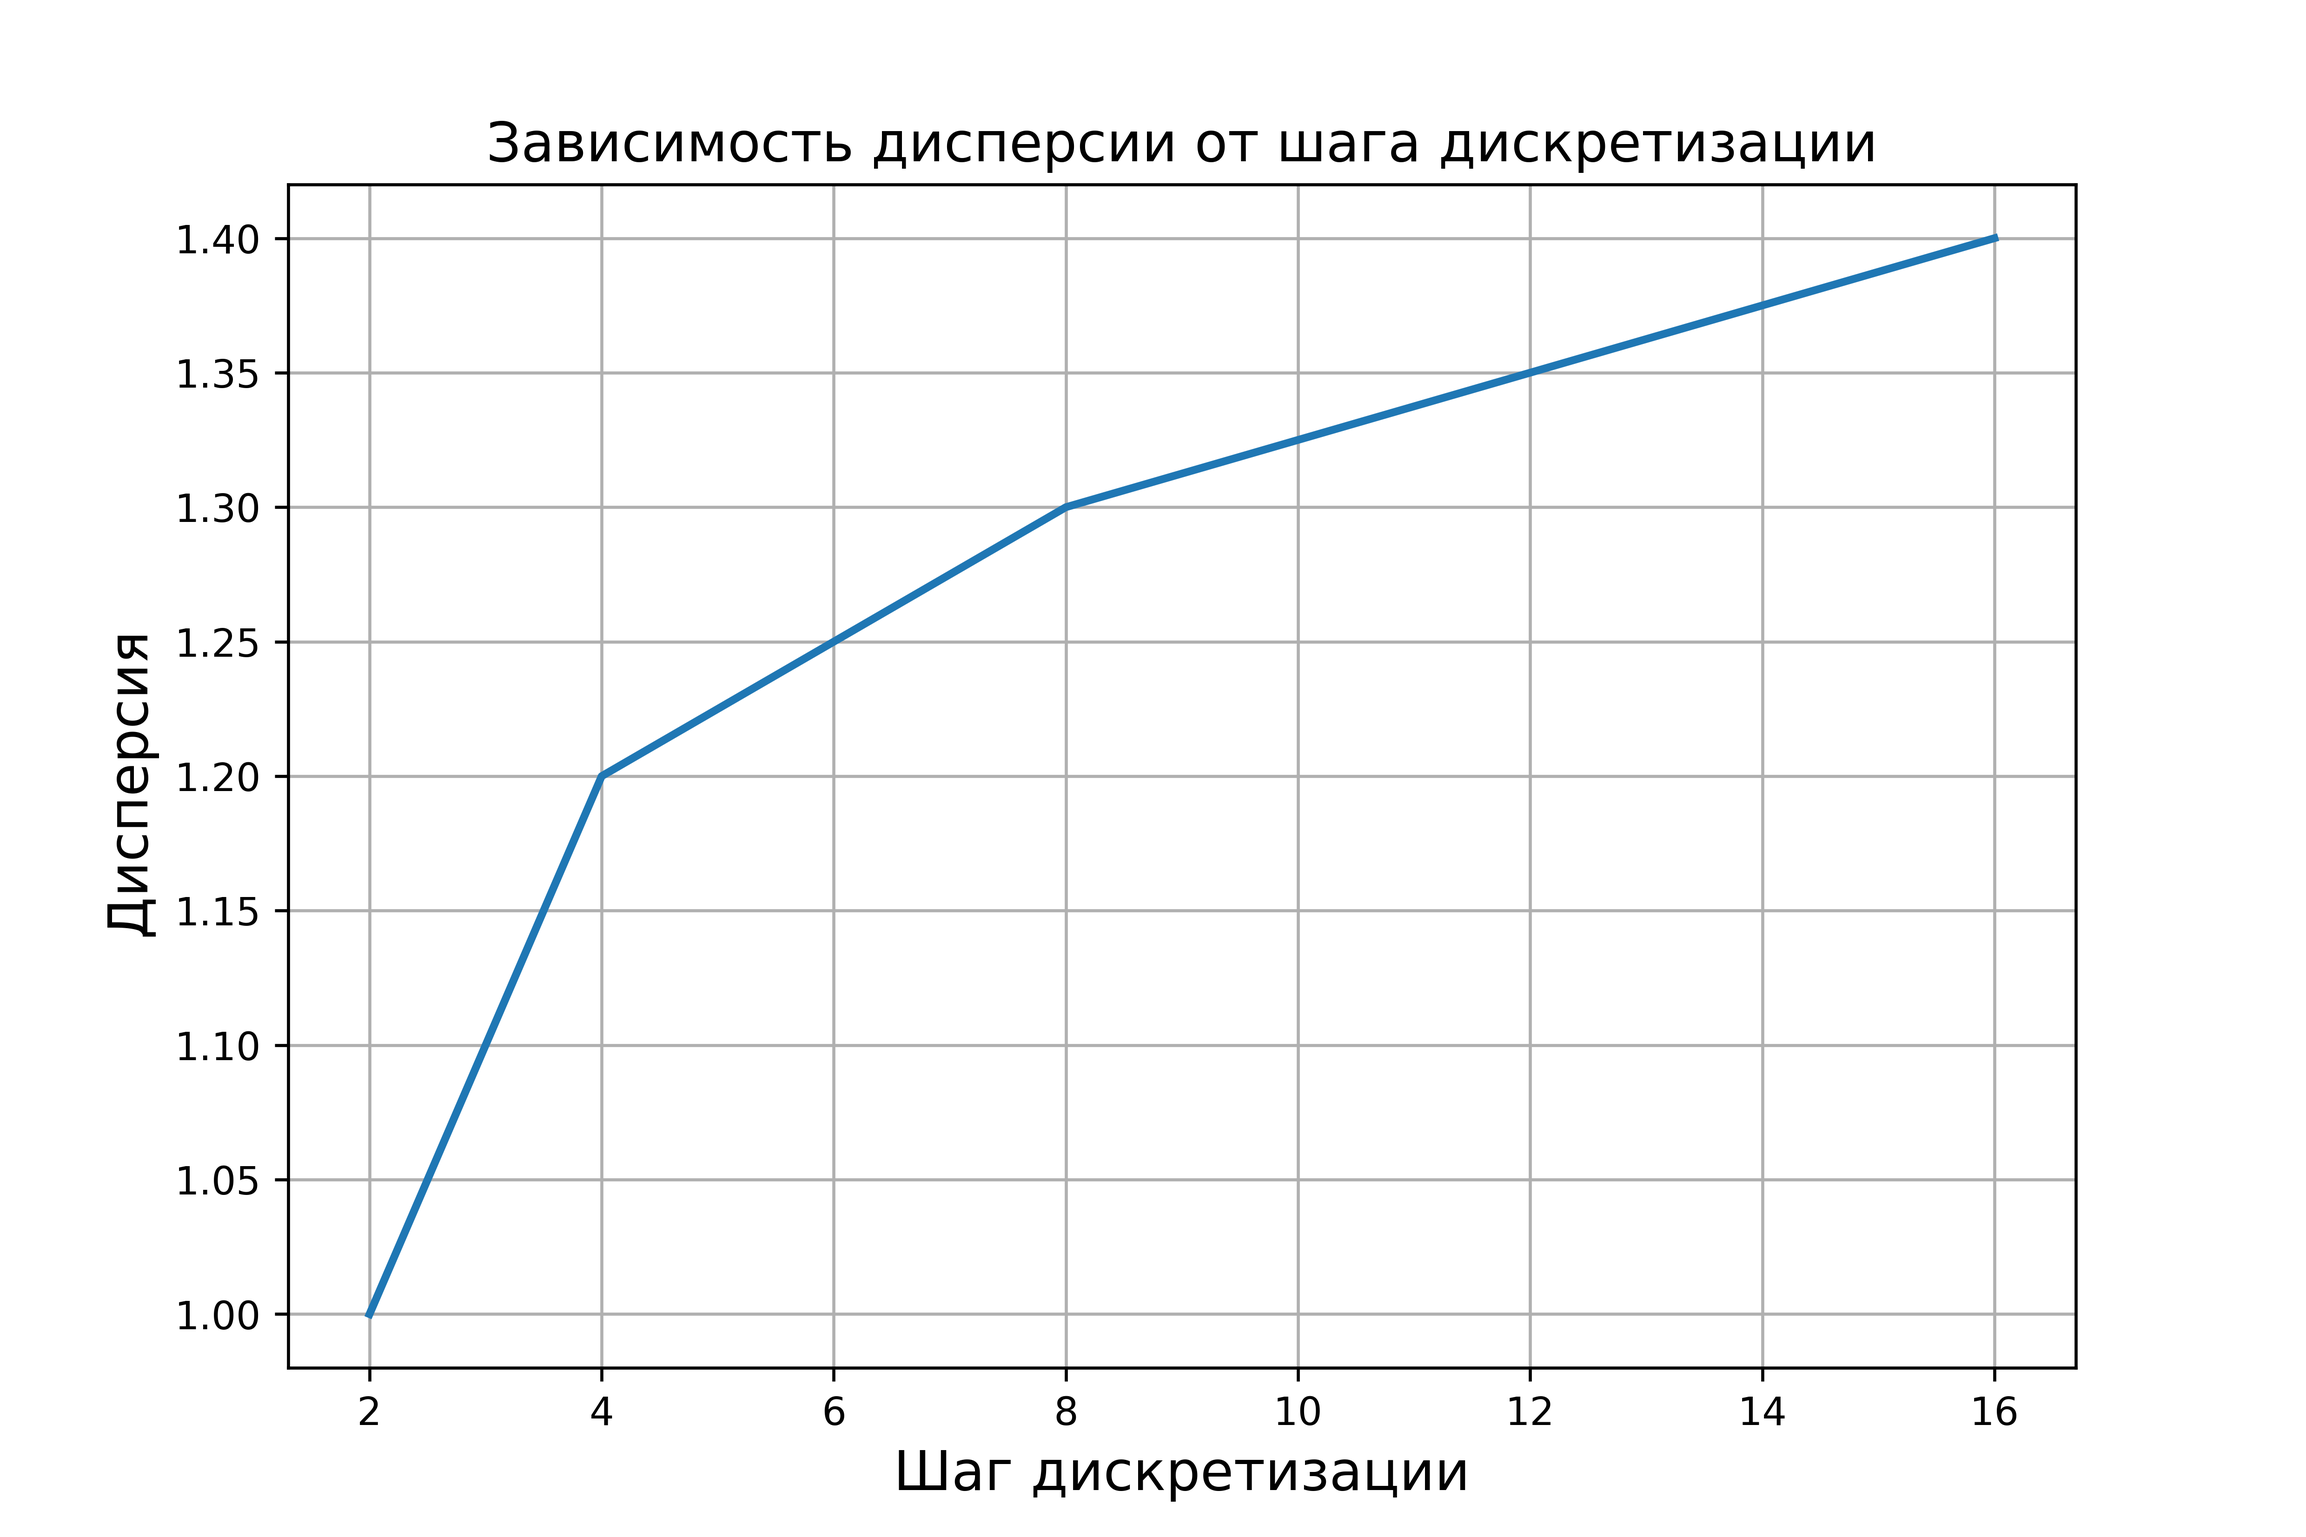
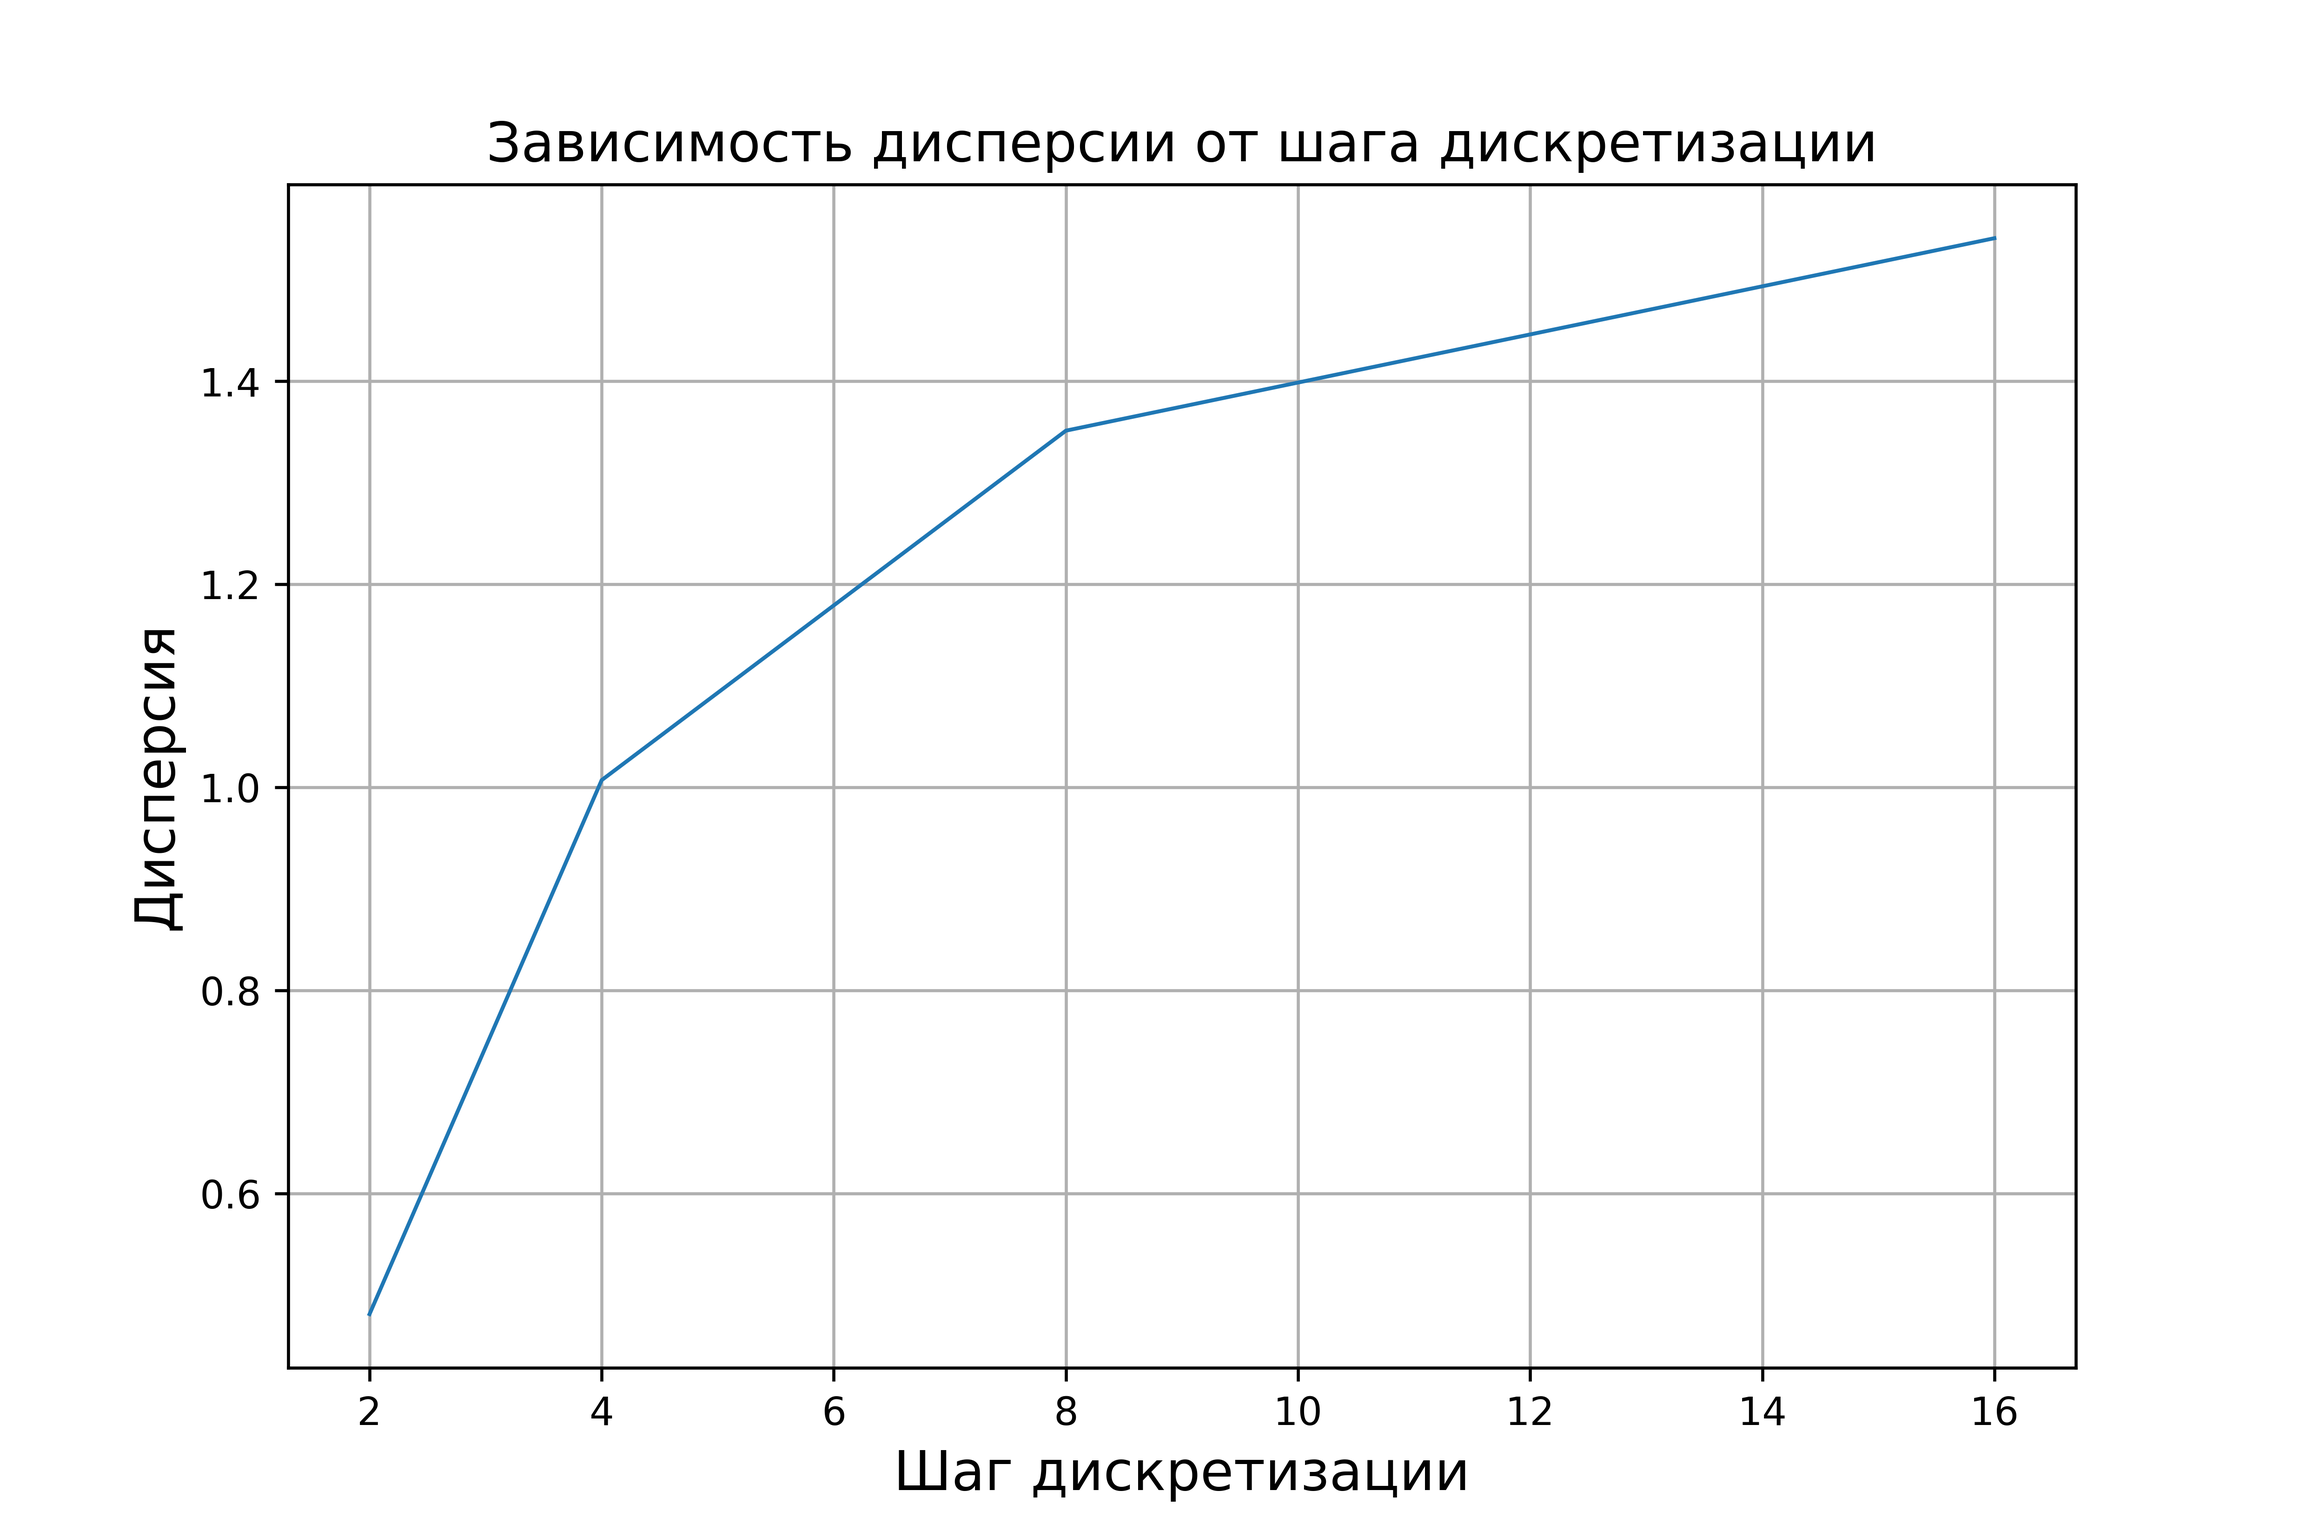
Signal Processing 3

diff --git a/SignalProcessing/SignalProcessing.py b/SignalProcessing/SignalProcessing.py
@@ -1,33 +1,20 @@
 import numpy
+import numpy as np
 import scipy
 import matplotlib.pyplot as plt
-
-
+from numpy import fft
+from scipy import signal
 # вариант 10 Замерець
-
 n = 500
 Fs = 1000
 Fmax = 21
 F_filter = 28
-
 random = numpy.random.normal(0, 10,  n)
-print(random)
 time_line_ox = numpy.arange(n)/Fs
-print(time_line_ox)
-
 w = Fmax/(Fs/2)
-
 parameters_filter = scipy.signal.butter(3, w, 'low', output='sos')
-
-
-
 filtered_signal = scipy.signal.sosfiltfilt(parameters_filter, random)
-
-print(filtered_signal)
-
 # график 1
-
-
 fig, ax = plt.subplots(figsize=(21/2.54, 14/2.54))
 ax.plot(time_line_ox, filtered_signal, linewidth = 1)
 ax.set_xlabel("Время (секунды) ", fontsize = 14)
@@ -36,111 +23,163 @@ plt.title("Сигнал с максимальной частотой Fmax = 21",
 ax.grid()
 fig.savefig('./figures/' + 'график 1' + '.png', dpi = 600)
 dpi = 600
-
 # расчет для второго графика
 spectrum = scipy.fft.fft(filtered_signal)
 spectrum = numpy.abs(scipy.fft.fftshift(spectrum))
 length_signal = n
 freq_countdown = scipy.fft.fftfreq(length_signal, 1/length_signal)
 freq_countdown = scipy.fft.fftshift(freq_countdown)
-
 #второй график
-
 fig, ax = plt.subplots(figsize=(21/2.54, 14/2.54))
 ax.plot(freq_countdown, spectrum, linewidth = 1)
-ax.set_xlabel("Время (секунды) ", fontsize = 14)
+ax.set_xlabel("Частота (Гц)", fontsize = 14)
 ax.set_ylabel("Амплитуда спектра ", fontsize = 14)
-
 plt.title("Спектр сигнала с максимальной частотой Fmax = 21", fontsize = 14)
 ax.grid()
 fig.savefig('./figures/' + 'график 2' + '.png', dpi=600)
-
-
 # Практична робота №3
-discrete_spectrums = []
-E1 = []
 discrete_signals = []
-discrete_signal_after_filers = []
-w = F_filter / (Fs / 2)
-parameters_fil = scipy.signal.butter(3, w, 'low', output='sos')
-filtered_signal_2 = None
-for Dt in [2, 4, 8, 16]:
+steps = (2, 4, 8, 16)
+for Dt in steps:
     discrete_signal = numpy.zeros(n)
     for i in range(0, round(n / Dt)):
         discrete_signal[i * Dt] = filtered_signal[i * Dt]
-        filtered_signal_2 = scipy.signal.sosfiltfilt(parameters_fil, discrete_signal)
-    discrete_signals += [list(discrete_signal)]
-    discrete_spectrum = scipy.fft.fft(discrete_signals)
-    discrete_spectrum = numpy.abs(scipy.fft.fftshift(discrete_spectrum))
-    discrete_spectrums += [list(discrete_spectrum)]
-    discrete_signal_after_filers += [list(filtered_signal_2)]
+    discrete_signals.append(list(discrete_signal))
 
-
-s = 0
 fig, ax = plt.subplots(2, 2, figsize=(21 / 2.54, 14 / 2.54))
+s = 0
 for i in range(0, 2):
     for j in range(0, 2):
         ax[i][j].plot(time_line_ox, discrete_signals[s], linewidth=1)
+        ax[i][j].grid()
         s += 1
-fig.supxlabel("Время (секунды)", fontsize=14)
-fig.supylabel("Амплитуда сигнала", fontsize=14)
-fig.suptitle("Сигнал з шагом дискретизации Dt = (2, 4, 8, 16)", fontsize=14)
+fig.supxlabel('Время (секунди)', fontsize=14)
+fig.supylabel('Амплитуда сигнала', fontsize=14)
+fig.suptitle(f'Сигнал с шагом дискретизации Dt = {steps}', fontsize=14)
 fig.savefig('./figures/' + 'график 3' + '.png', dpi=600)
 
-# новое
+discrete_spectrums = []
+for Ds in discrete_signals:
+    spectrum = fft.fft(Ds)
+    spectrum = numpy.abs(fft.fftshift(spectrum))
+    discrete_spectrums.append(list(spectrum))
 
-s = 0
+freq_countdown = fft.fftfreq(n, 1 / n)
+freq_countdown = fft.fftshift(freq_countdown)
 fig, ax = plt.subplots(2, 2, figsize=(21 / 2.54, 14 / 2.54))
+s = 0
 for i in range(0, 2):
     for j in range(0, 2):
-        ax[i][j].plot(freq_countdown, discrete_spectrum[s], linewidth=1)
+        ax[i][j].plot(freq_countdown, discrete_spectrums[s], linewidth=1)
+        ax[i][j].grid()
         s += 1
-fig.supxlabel("Частота (Гц)", fontsize=14)
-fig.supylabel("Амплитуда спектра", fontsize=14)
-fig.suptitle("Сигнал з шагом дискретизации Dt = (2, 4, 8, 16)", fontsize=14)
+fig.supxlabel('Частота (Гц) ', fontsize=14)
+fig.supylabel('Амплитуда спектра', fontsize=14)
+fig.suptitle(f'Спектры сигналов с шагом дискретизации Dt = {steps}', fontsize=14)
 fig.savefig('./figures/' + 'график 4' + '.png', dpi=600)
-
-
-##ssss
-s = 0
+w = F_filter / (Fs / 2)
+parameters_filter = signal.butter(3, w, 'low', output='sos')
+filtered_discretes_signal = []
+for discrete_signal in discrete_signals:
+    discrete_signal = signal.sosfiltfilt(parameters_filter, discrete_signal)
+    filtered_discretes_signal.append(list(discrete_signal))
 fig, ax = plt.subplots(2, 2, figsize=(21 / 2.54, 14 / 2.54))
+s = 0
 for i in range(0, 2):
     for j in range(0, 2):
-        ax[i][j].plot(time_line_ox, discrete_signal_after_filers[s], linewidth=1)
+        ax[i][j].plot(time_line_ox, filtered_discretes_signal[s], linewidth=1)
+        ax[i][j].grid()
         s += 1
-fig.supxlabel("Время (секунды)", fontsize=14)
-fig.supylabel("Амплитуда сигнала", fontsize=14)
-fig.suptitle("Сигнал з шагом дискретизации Dt = (2, 4, 8, 16)", fontsize=14)
+fig.supxlabel('Время (секунды)', fontsize=14)
+fig.supylabel('Амплитуда сигнала', fontsize=14)
+fig.suptitle(f'Востановленные аналоговые сигналы с шагом дискретизации Dt = {steps}', fontsize=14)
 fig.savefig('./figures/' + 'график 5' + '.png', dpi=600)
-
-print("discrete_signal_after_filers: ", discrete_signal_after_filers)
-
-
-E1 = discrete_signal_after_filers - filtered_signal
-disp_start = numpy.var(filtered_signal)
-disp_restored = numpy.var(E1)
-E2 = [1.0, 1.2, 1.3, 1.4]
-relation_signal_noise = numpy.var(filtered_signal) / numpy.var(E1)
-
-x_axis = [2, 4, 8, 16]
-fig, ax = plt.subplots(figsize=(21/2.54, 14/2.54))
-
-ax.plot(x_axis, E2, linewidth = 2)
-ax.set_xlabel("Шаг дискретизации", fontsize = 14)
-ax.set_ylabel("Дисперсия ", fontsize = 14)
-
-plt.title("Зависимость дисперсии от шага дискретизации", fontsize = 14)
+dispersions = []
+signal_noise = []
+for i in range(len(steps)):
+    E1 = filtered_discretes_signal[i] - filtered_signal
+    dispersion = numpy.var(E1)
+    dispersions.append(dispersion)
+    signal_noise.append(numpy.var(filtered_signal) / dispersion)
+fig, ax = plt.subplots(figsize=(21 / 2.54, 14 / 2.54))
+ax.plot(steps, dispersions, linewidth=1)
+ax.set_xlabel('Шаг дискретизации', fontsize=14)
+ax.set_ylabel('Дисперсия', fontsize=14)
+plt.title(f'Зависимость дисперсии от шага дискретизации', fontsize=14)
 ax.grid()
 fig.savefig('./figures/' + 'график 6' + '.png', dpi=600)
-
-
-########################
-
-fig, ax = plt.subplots(figsize=(21/2.54, 14/2.54))
-relation_signal_noise2 = [4.0, 3.0, 2.0, 1.0]
-ax.plot(x_axis, relation_signal_noise2, linewidth = 1)
-ax.set_xlabel("Шаг дискретизации ", fontsize = 14)
-ax.set_ylabel("ССШ ", fontsize = 14)
-plt.title("Зависимость дисперсии от шага дискретизации", fontsize = 14)
+fig, ax = plt.subplots(figsize=(21 / 2.54, 14 / 2.54))
+ax.plot(steps, signal_noise, linewidth=1)
+ax.set_xlabel('Шаг дискретизации', fontsize=14)
+ax.set_ylabel('ССШ', fontsize=14)
+plt.title(f'Зависимость соотношения сигнал-шум от шага дискретизации', fontsize=14)
 ax.grid()
 fig.savefig('./figures/' + 'график 7' + '.png', dpi=600)
+#PZ 4
+bits_list = []
+quantize_signals = []
+num = 0
+for M in [4, 16, 64, 256]:
+    delta = (numpy.max(filtered_signal) - numpy.min(filtered_signal)) / (M - 1)
+    quantize_signal = delta * np.round(filtered_signal / delta)
+    quantize_signals.append(list(quantize_signal))
+    quantize_levels = numpy.arange(numpy.min(quantize_signal), numpy.max(quantize_signal) + 1, delta)
+    quantize_bit = numpy.arange(0, M)
+    quantize_bit = [format(bits, '0' + str(int(numpy.log(M) / numpy.log(2))) + 'b') for bits in quantize_bit]
+    quantize_table = numpy.c_[quantize_levels[:M], quantize_bit[:M]]
+    fig, ax = plt.subplots(figsize=(14 / 2.54, M / 2.54))
+    table = ax.table(cellText=quantize_table, colLabels=['Значение сигнала', 'Кодовая последовательность'], loc='center')
+    table.set_fontsize(14)
+    table.scale(1, 2)
+    ax.axis('off')
+    fig.savefig('./figures/' + 'Таблица квантования для %d уровней ' % M + '.png', dpi=600)
+    bits = []
+    for signal_value in quantize_signal:
+        for index, value in enumerate(quantize_levels[:M]):
+            if numpy.round(numpy.abs(signal_value - value), 0) == 0:
+                bits.append(quantize_bit[index])
+                break
+
+    bits = [int(item) for item in list(''.join(bits))]
+    bits_list.append(bits)
+    fig, ax = plt.subplots(figsize=(21 / 2.54, 14 / 2.54))
+    ax.step(numpy.arange(0, len(bits)), bits, linewidth=0.1)
+    ax.set_xlabel('Биты', fontsize=14)
+    ax.set_ylabel('Амплитуда сигнала', fontsize=14)
+    plt.title(f'Кодовая последовательность при количестве уровней квантования {M}', fontsize=14)
+    ax.grid()
+    fig.savefig('./figures/' + 'График %d ' % (8 + num) + '.png', dpi=600)
+    num += 1
+dispersions = []
+signal_noise = []
+for i in range(4):
+    E1 = quantize_signals[i] - filtered_signal
+    dispersion = numpy.var(E1)
+    dispersions.append(dispersion)
+    signal_noise.append(numpy.var(filtered_signal) / dispersion)
+fig, ax = plt.subplots(2, 2, figsize=(21 / 2.54, 14 / 2.54))
+s = 0
+for i in range(0, 2):
+    for j in range(0, 2):
+        ax[i][j].plot(time_line_ox, quantize_signals[s], linewidth=1)
+        ax[i][j].grid()
+        s += 1
+fig.supxlabel('Время (секунды)', fontsize=14)
+fig.supylabel('Амплитуда сигнала', fontsize=14)
+fig.suptitle(f'Цифровые сигналы с уровнями квантования (4, 16, 64, 256)', fontsize=14)
+fig.savefig('./figures/' + 'график 12' + '.png', dpi=600)
+fig, ax = plt.subplots(figsize=(21 / 2.54, 14 / 2.54))
+ax.plot([4, 16, 64, 256], dispersions, linewidth=1)
+ax.set_xlabel('Количество уровней квантования', fontsize=14)
+ax.set_ylabel('Дисперсия', fontsize=14)
+plt.title(f'Зависимость дисперсии от количества уровней квантования', fontsize=14)
+ax.grid()
+fig.savefig('./figures/' + 'график 13' + '.png', dpi=600)
+fig, ax = plt.subplots(figsize=(21 / 2.54, 14 / 2.54))
+ax.plot([4, 16, 64, 256], signal_noise, linewidth=1)
+ax.set_xlabel('Количество уровней квантования', fontsize=14)
+ax.set_ylabel('ССШ', fontsize=14)
+plt.title(f'Зависимость соотношения сигнал-шум от количества уровней квантования', fontsize=14)
+ax.grid()
+fig.savefig('./figures/' + 'график 14' + '.png', dpi=600)
+print("sign.noise: ", signal_noise)
